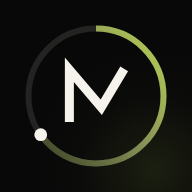
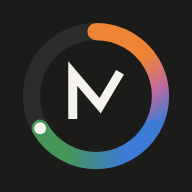
Ícono con el anillo naranja, azul y verde, y apertura al estilo de las referencias
- Ícono (todos): el logo de siempre en grafito, con el anillo de las
  gráficas del Dash en tres colores: naranja (aprendizaje), azul (entreno)
  y verde (comida), y el punto dentro del trazo. Fuente en public/icono.svg;
  192, 512, maskable y el de iPhone generados de ahí. El arranque de
  Android usa el mismo grafito de fondo.
- Apertura (visual nueva): pantalla completa en el grafito del ícono, como
  Puntos: un punto blanco nace en el centro, sube y dibuja el anillo de tres
  colores, se dibuja la M, el logo se hace chico a la izquierda y sale
  «Entrena con / Método» a su lado, y el lema. Mínimo 3,6 s.

Claude-Session: https://claude.ai/code/session_017q9eB3jcU4JAqbgUHmF9x1

diff --git a/index.html b/index.html
@@ -103,71 +103,77 @@
       /* Arranque caliente (misma sesión): sin opener, directo a la app */
       html.warm-start #splash { display: none; }
       /* ── Apertura de la visual nueva ─────────────────────────────────
-         El LOGO REAL (la M que termina hacia arriba, como un check), dentro
-         del anillo de las gráficas del Dash: trazo grueso sobre su riel, el
-         punto blanco dentro del trazo, del azul del entreno (arriba) al verde
-         de la comida (en la punta). El mismo dibujo del ícono de la app.
-           0.0 s  aparece el riel y un halo suave que respira
-           0.2 s  el anillo se llena hasta donde lo hace el logo, con el punto
-                  en la punta
-           0.6 s  la M se dibuja de un solo trazo
-           1.5 s  un brillo recorre la M y el logo da un pulso
-           1.6 s  el nombre sube desde detrás de una línea
-           2.2 s  el lema
-         Luego se queda quieto hasta que la app está lista (mínimo 3,4 s
-         desde que se toca el ícono, ver main.jsx) y sale agrandándose. */
+         Al estilo de las apps de referencia (Puntos, Headspace): la
+         pantalla completa en el grafito del ícono, así tocar el ícono y
+         abrir la app se sienten una sola cosa.
+           0.10 s  aparece un punto blanco en el centro
+           0.55 s  el punto sube a su sitio en el anillo
+           0.80 s  el anillo se dibuja con el punto en la punta: naranja
+                   (aprendizaje), azul (entreno), verde (comida)
+           1.25 s  la M del logo se dibuja
+           1.95 s  un brillo recorre la M
+           2.15 s  el logo se hace chico a la izquierda y sale el nombre
+           2.75 s  el lema
+         Se queda quieto hasta que la app está lista (mínimo 3,6 s desde que
+         se toca el ícono, ver main.jsx) y se desvanece. */
       @font-face { font-family: 'ECM Splash'; font-weight: 300 900; font-display: block;
         src: url('/fonts/figtree.woff2') format('woff2-variations'), url('/fonts/figtree.woff2') format('woff2'); }
       #splash2 { display: none; }
       html.splash-v2 #splash { display: none; }
       html.splash-v2 #splash2 {
         position: fixed; inset: 0; z-index: 9999; display: flex; flex-direction: column;
-        align-items: center; justify-content: center; background: #F1F0EA; overflow: hidden;
-        transition: opacity 0.5s ease-out;
+        align-items: center; justify-content: center; background: #1B1B1A; overflow: hidden;
+        transition: opacity 0.45s ease-out;
       }
       body.app-ready #splash2 { opacity: 0; pointer-events: none; }
       html.warm-start #splash2 { display: none !important; }
-      #splash2 .halo { position: absolute; width: 520px; height: 520px; border-radius: 50%; left: 50%; top: 50%;
-        margin: -330px 0 0 -260px; opacity: 0;
-        background: radial-gradient(closest-side, rgba(60,123,214,0.16), rgba(70,150,90,0.10) 55%, rgba(241,240,234,0) 100%);
-        animation: s2halo 1.2s ease-out 0.05s forwards, s2respira 3.2s ease-in-out 1.25s infinite; }
-      @keyframes s2halo { from { opacity: 0; transform: scale(0.6); } to { opacity: 1; transform: scale(1); } }
-      @keyframes s2respira { 0%, 100% { transform: scale(1); } 50% { transform: scale(1.06); } }
-      #splash2 .contenido { position: relative; display: flex; flex-direction: column; align-items: center;
-        transition: transform 0.5s cubic-bezier(.3,0,.2,1); }
-      body.app-ready #splash2 .contenido { transform: scale(1.08); }
-      #splash2 .marca { width: 132px; height: 132px; overflow: visible;
-        animation: s2pulso 0.6s cubic-bezier(.3,0,.2,1) 1.5s both; }
-      @keyframes s2pulso { 0% { transform: scale(1); } 40% { transform: scale(1.07); } 100% { transform: scale(1); } }
-      #splash2 .riel { opacity: 0; animation: s2in 0.4s ease-out 0.05s forwards; }
-      #splash2 .arco { stroke-dasharray: 100; stroke-dashoffset: 100;
-        animation: s2arco 1.2s cubic-bezier(.65,0,.25,1) 0.2s forwards; }
-      @keyframes s2arco { to { stroke-dashoffset: 33.3; } }
-      #splash2 .punta { transform-origin: 256px 256px; opacity: 0;
-        animation: s2punta 1.2s cubic-bezier(.65,0,.25,1) 0.2s forwards; }
-      @keyframes s2punta { 0% { opacity: 1; transform: rotate(0deg); } 100% { opacity: 1; transform: rotate(240deg); } }
-      #splash2 .eme { stroke-dasharray: 100; stroke-dashoffset: 100;
-        animation: s2eme 0.8s cubic-bezier(.6,0,.25,1) 0.6s forwards; }
-      @keyframes s2eme { to { stroke-dashoffset: 0; } }
+      #splash2 .fila { display: flex; align-items: center; transition: transform 0.45s cubic-bezier(.3,0,.2,1); }
+      body.app-ready #splash2 .fila { transform: scale(1.05); }
+      #splash2 .marca { width: 150px; height: 150px; flex: none; overflow: visible;
+        animation: s2chica 0.65s cubic-bezier(.65,0,.25,1) 2.15s forwards; }
+      @keyframes s2chica { to { width: 84px; height: 84px; } }
+      #splash2 .riel { opacity: 0; animation: s2in 0.45s ease-out 0.7s forwards; }
+      #splash2 .tramo1 { stroke-dasharray: 100 100; stroke-dashoffset: 100;
+        animation: s2traza 0.5s cubic-bezier(.55,0,1,1) 0.8s forwards; }
+      #splash2 .tramo2 { stroke-dasharray: 100 100; stroke-dashoffset: 100; opacity: 0;
+        animation: s2traza2 0.5s cubic-bezier(0,0,.3,1) 1.3s forwards; }
+      @keyframes s2traza { to { stroke-dashoffset: 0; } }
+      @keyframes s2traza2 { 0% { opacity: 1; stroke-dashoffset: 100; } 100% { opacity: 1; stroke-dashoffset: 0; } }
+      /* El punto: nace grande en el centro, sube a lo alto del anillo y
+         luego gira con la punta del trazo (mismo ritmo que los dos tramos). */
+      #splash2 .gira { transform-origin: 256px 256px;
+        animation: s2gira 1s linear 0.8s forwards; }
+      @keyframes s2gira {
+        0% { transform: rotate(0deg); animation-timing-function: cubic-bezier(.55,0,1,1); }
+        50% { transform: rotate(120deg); animation-timing-function: cubic-bezier(0,0,.3,1); }
+        100% { transform: rotate(240deg); } }
+      #splash2 .semilla { transform-box: fill-box; transform-origin: center; transform: translateY(172px) scale(0);
+        animation: s2semilla 0.7s cubic-bezier(.3,0,.2,1) 0.1s forwards; }
+      @keyframes s2semilla {
+        0% { transform: translateY(172px) scale(0); }
+        40% { transform: translateY(172px) scale(5.5); }
+        62% { transform: translateY(172px) scale(5.5); }
+        100% { transform: translateY(0) scale(1); } }
+      #splash2 .eme { stroke-dasharray: 100 100; stroke-dashoffset: 100; opacity: 0;
+        animation: s2eme 0.7s cubic-bezier(.6,0,.25,1) 1.25s forwards; }
+      @keyframes s2eme { 0% { opacity: 1; stroke-dashoffset: 100; } 100% { opacity: 1; stroke-dashoffset: 0; } }
       #splash2 .brillo { stroke-dasharray: 18 100; stroke-dashoffset: 18; opacity: 0;
-        animation: s2brillo 0.65s ease-in-out 1.45s forwards; }
-      @keyframes s2brillo { 0% { opacity: 0; stroke-dashoffset: 18; } 20% { opacity: 0.9; } 80% { opacity: 0.9; } 100% { opacity: 0; stroke-dashoffset: -100; } }
-      #splash2 .nombre { margin-top: 26px; overflow: hidden; padding: 2px 4px 4px;
-        font-family: 'ECM Splash', -apple-system, system-ui, sans-serif; font-weight: 800; font-size: 26px;
-        color: #1F1F1F; line-height: 1.1; }
-      #splash2 .nombre span { display: inline-block; transform: translateY(110%); letter-spacing: 0.12em;
-        animation: s2nombre 0.75s cubic-bezier(.2,.8,.2,1) 1.6s forwards; }
-      @keyframes s2nombre { to { transform: none; letter-spacing: -0.02em; } }
-      #splash2 .linea { width: 0; height: 2px; border-radius: 2px; margin-top: 2px;
-        background: linear-gradient(90deg, #3C7BD6, #46965A); animation: s2linea 0.6s cubic-bezier(.3,0,.2,1) 1.55s forwards; }
-      @keyframes s2linea { to { width: 44px; } }
-      #splash2 .lema { margin-top: 10px; font-family: 'ECM Splash', -apple-system, system-ui, sans-serif; font-weight: 500;
-        font-size: 14.5px; color: #8A8778; letter-spacing: 0.01em; opacity: 0; transform: translateY(4px);
-        animation: s2lema 0.6s ease-out 2.2s forwards; }
+        animation: s2brillo 0.6s ease-in-out 1.95s forwards; }
+      @keyframes s2brillo { 0% { opacity: 0; stroke-dashoffset: 18; } 20% { opacity: 0.85; } 80% { opacity: 0.85; } 100% { opacity: 0; stroke-dashoffset: -100; } }
+      #splash2 .palabra { max-width: 0; overflow: hidden; white-space: nowrap; opacity: 0;
+        font-family: 'ECM Splash', -apple-system, system-ui, sans-serif; color: #F5F3EC; line-height: 1.02;
+        animation: s2palabra 0.65s cubic-bezier(.65,0,.25,1) 2.15s forwards; }
+      @keyframes s2palabra { to { max-width: 230px; opacity: 1; padding-left: 16px; } }
+      #splash2 .palabra .p1 { font-size: 21px; font-weight: 600; color: #CFCBC0; letter-spacing: -0.01em; }
+      #splash2 .palabra .p2 { font-size: 38px; font-weight: 800; letter-spacing: -0.025em; }
+      #splash2 .lema { position: absolute; left: 0; right: 0; top: calc(50% + 70px); text-align: center;
+        font-family: 'ECM Splash', -apple-system, system-ui, sans-serif; font-weight: 500;
+        font-size: 14.5px; color: #8E8A80; letter-spacing: 0.01em; opacity: 0; transform: translateY(6px);
+        animation: s2lema 0.6s ease-out 2.75s forwards; }
       @keyframes s2lema { to { opacity: 1; transform: none; } }
       @keyframes s2in { to { opacity: 1; } }
       @media (prefers-reduced-motion: reduce) {
-        #splash2 *, #splash2 .marca { animation-duration: 0.01s !important; animation-delay: 0s !important; animation-iteration-count: 1 !important; }
+        #splash2 *, #splash2 .marca { animation-duration: 0.01s !important; animation-delay: 0s !important; }
       }
       @media (prefers-reduced-motion: reduce) {
         #splash .ring { animation-duration: 0.01s; }
@@ -204,29 +210,24 @@
       <div class="sub">Entrena con Método</div>
     </div>
     <div id="splash2" aria-label="Entrena con Método">
-      <div class="halo"></div>
-      <div class="contenido">
+      <div class="fila">
         <svg class="marca" viewBox="0 0 512 512" fill="none" aria-hidden="true">
           <defs>
-            <linearGradient id="s2-arco" x1="442" y1="256" x2="170" y2="107" gradientUnits="userSpaceOnUse">
-              <stop offset="0" stop-color="#3C7BD6"/>
-              <stop offset="0.55" stop-color="#3F8FA6"/>
-              <stop offset="1" stop-color="#46965A"/>
-            </linearGradient>
-          </defs>
-          <circle class="riel" cx="256" cy="256" r="172" stroke="#E6E2D8" stroke-width="46"/>
-          <circle class="arco" cx="256" cy="256" r="172" stroke="url(#s2-arco)" stroke-width="46" pathLength="100"
-                  stroke-linecap="round" transform="rotate(-90 256 256)"/>
-          <g class="punta"><circle cx="256" cy="84" r="16" fill="#FFFFFF"/></g>
-          <polyline class="eme" points="194,305 194,196 267,282 314,203" pathLength="100" stroke="#1F1F1F"
+    <linearGradient id="s2a1" x1="256" y1="84" x2="404.96" y2="342" gradientUnits="userSpaceOnUse"><stop offset="0" stop-color="#EE8434"/><stop offset="0.42" stop-color="#EE8434"/><stop offset="0.72" stop-color="#C06AA0"/><stop offset="1" stop-color="#3C7BD6"/></linearGradient>
+    <linearGradient id="s2a2" x1="404.96" y1="342" x2="107.04" y2="342" gradientUnits="userSpaceOnUse"><stop offset="0" stop-color="#3C7BD6"/><stop offset="0.25" stop-color="#3C7BD6"/><stop offset="0.75" stop-color="#46965A"/><stop offset="1" stop-color="#46965A"/></linearGradient>
+  </defs>
+  <circle class="riel" cx="256" cy="256" r="172" stroke="#2C2C2A" stroke-width="46" fill="none"/>
+  <path class="tramo1" d="M256 84 A172 172 0 0 1 404.96 342" stroke="url(#s2a1)" stroke-width="46" stroke-linecap="round" fill="none" pathLength="100"/>
+  <path class="tramo2" d="M404.96 342 A172 172 0 0 1 107.04 342" stroke="url(#s2a2)" stroke-width="46" stroke-linecap="round" fill="none" pathLength="100"/>
+          <polyline class="eme" points="194,305 194,196 267,282 314,203" pathLength="100" stroke="#F5F3EC"
                     stroke-width="24" stroke-linecap="square" stroke-linejoin="miter"/>
           <polyline class="brillo" points="194,305 194,196 267,282 314,203" pathLength="100" stroke="#FFFFFF"
-                    stroke-width="10" stroke-linecap="round" stroke-linejoin="round"/>
+                    stroke-width="9" stroke-linecap="round" stroke-linejoin="round"/>
+          <g class="gira"><circle class="semilla" cx="256" cy="84" r="16" fill="#F5F3EC"/></g>
         </svg>
-        <div class="nombre"><span>Entrena con Método</span></div>
-        <div class="linea"></div>
-        <div class="lema">Tu progreso, con método</div>
+        <div class="palabra"><div class="p1">Entrena con</div><div class="p2">Método</div></div>
       </div>
+      <div class="lema">Tu progreso, con método</div>
     </div>
     <div id="root"></div>
     <script type="module" src="/src/main.jsx"></script>

diff --git a/src/main.jsx b/src/main.jsx
@@ -46,9 +46,9 @@ ReactDOM.createRoot(document.getElementById('root')).render(
 if (typeof window !== 'undefined') {
   const warmStart = (() => { try { return !!sessionStorage.getItem('mt:booted'); } catch (e) { return false; } })();
   // Visual nueva: la apertura con el logo dura más (la secuencia termina a
-  // los ~2,8 s) para que se alcance a ver completa.
+  // los ~3,3 s) para que se alcance a ver completa.
   const splashV2 = document.documentElement.classList.contains('splash-v2');
-  const SPLASH_MIN_MS = warmStart ? 0 : splashV2 ? 3400 : 2200;
+  const SPLASH_MIN_MS = warmStart ? 0 : splashV2 ? 3600 : 2200;
   requestAnimationFrame(() => {
     const holdLeft = Math.max(80, SPLASH_MIN_MS - performance.now());
     setTimeout(() => {
